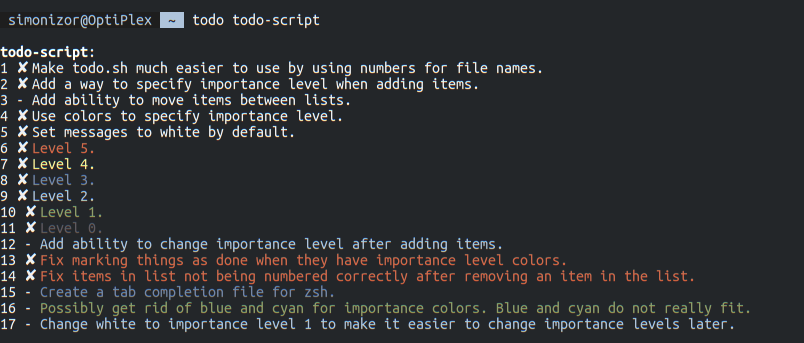
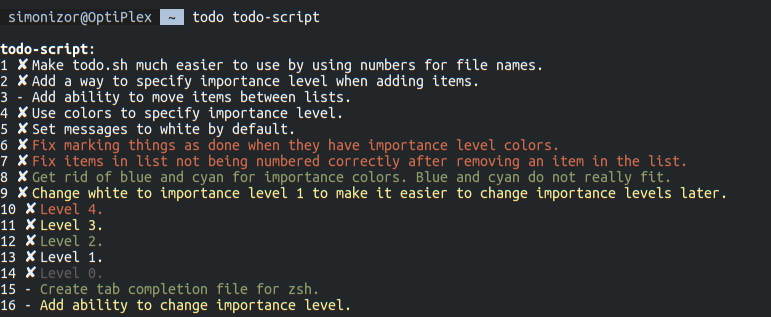
Remove blue and cyan from importance colors Change white to be importance level 1 Importance levels are now 4-0; 4 being the highest and 0 being the lowest

Changed region(s): [[0.0, 0.1136, 0.9339, 0.9937], [0.0, 0.0284, 0.4358, 0.0852]]

diff --git a/README.md b/README.md
@@ -12,7 +12,7 @@ with each item in the list stored as a separate file in that directory.
 Options:
 - todo ------------------- # Lists all lists or items in specified list
 - todo add list item ----- # Adds item to specified list
-- todo add i=n list item - # Adds item to specified list with importance level n (5-0)
+- todo add i=n list item - # Adds item to specified list with importance level n (4-0)
 - todo edit list item# --- # Opens the default editor to edit specified list item#
 - todo done list item# --- # Marks an item# in list or specified list with an X to indicate it is done
 - todo undo list item# --- # Removes X from specified item# in list to mark it as not done
@@ -22,7 +22,7 @@ Examples:
 - todo -------------------- # Lists all items in all todo lists
 - todo mylist ------------- # Lists all items in mylist
 - todo add mylist my item - # Adds my item to mylist
-- todo add i=5 mylist item -# Adds item to mylist with importance level 5
+- todo add i=4 mylist item -# Adds item to mylist with importance level 4
 - todo done mylist 1 ------ # Marks item 1 in mylist with an X to indicate it is done
 - todo undo mylist 1 ------ # Removes X from item 1 in mylist to mark it as not done
 - todo edit mylist 1 ------ # Opens the default editor to edit item 1 in mylist
